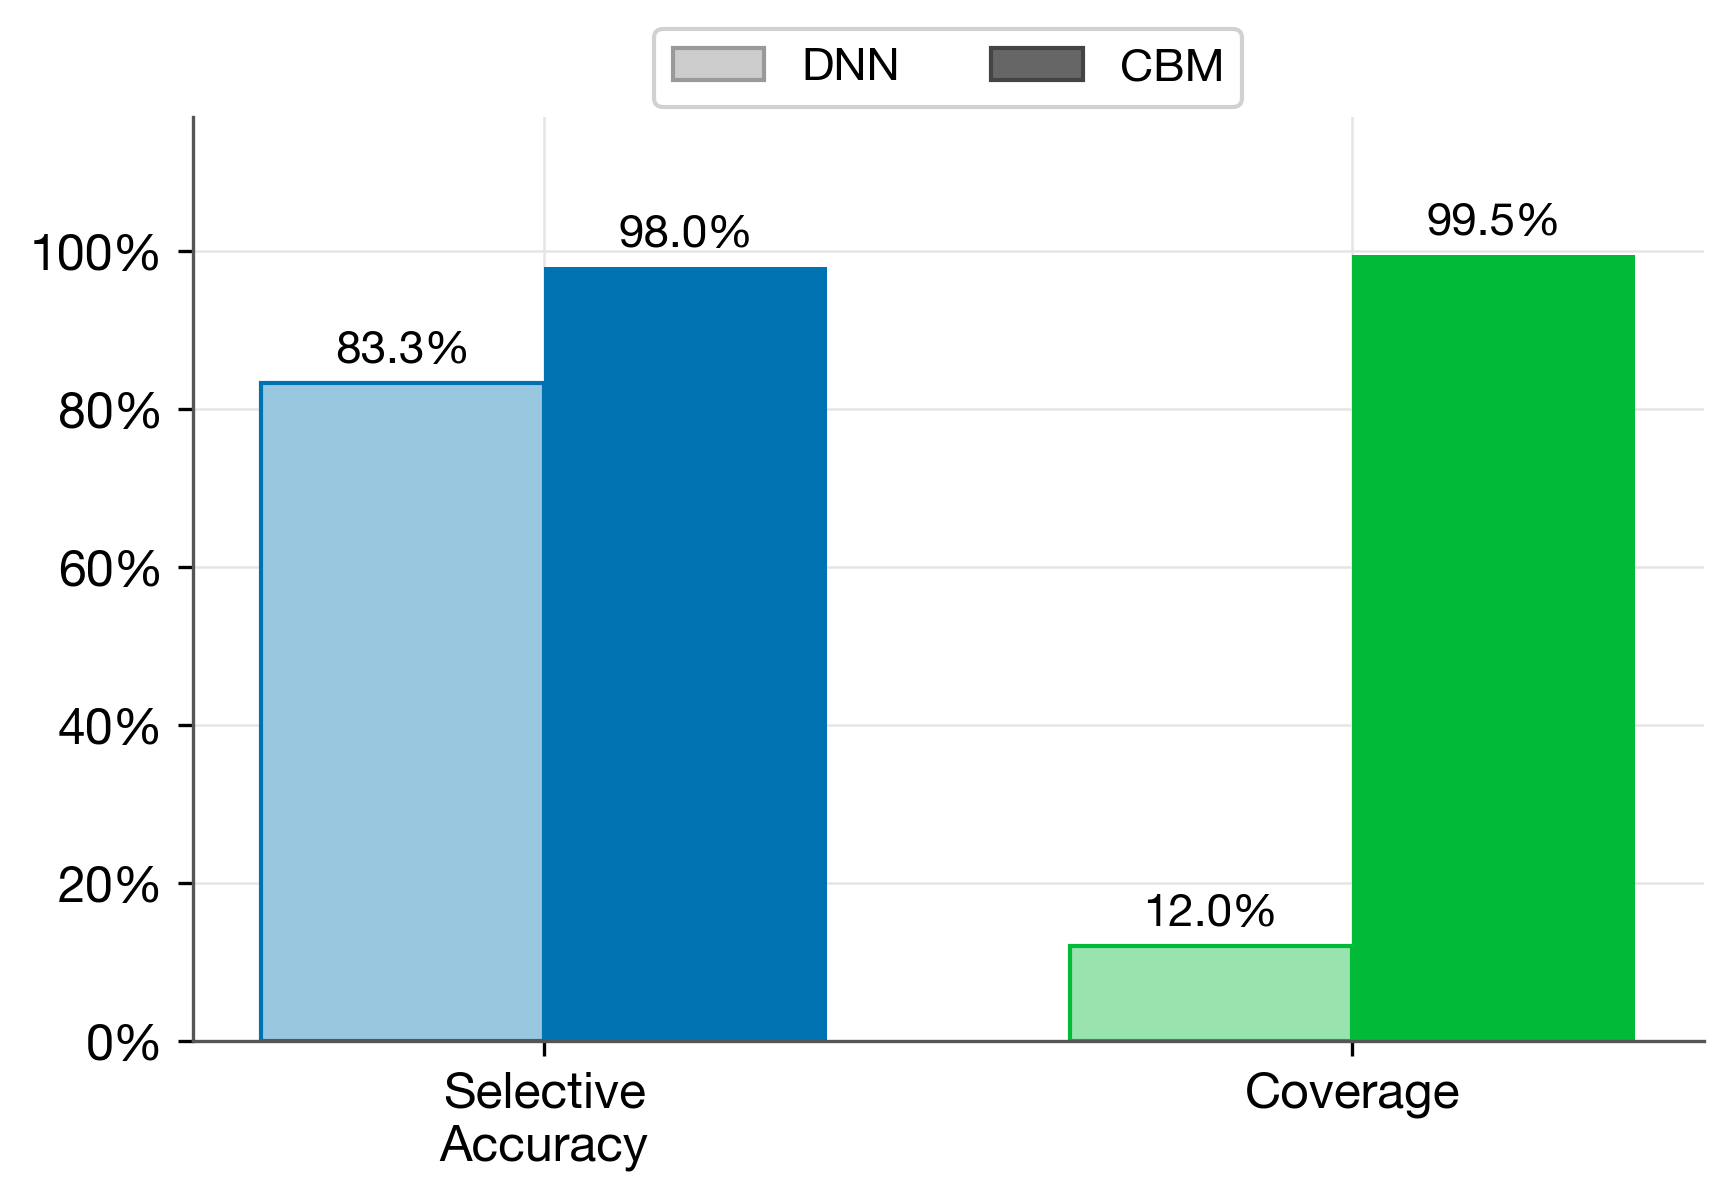
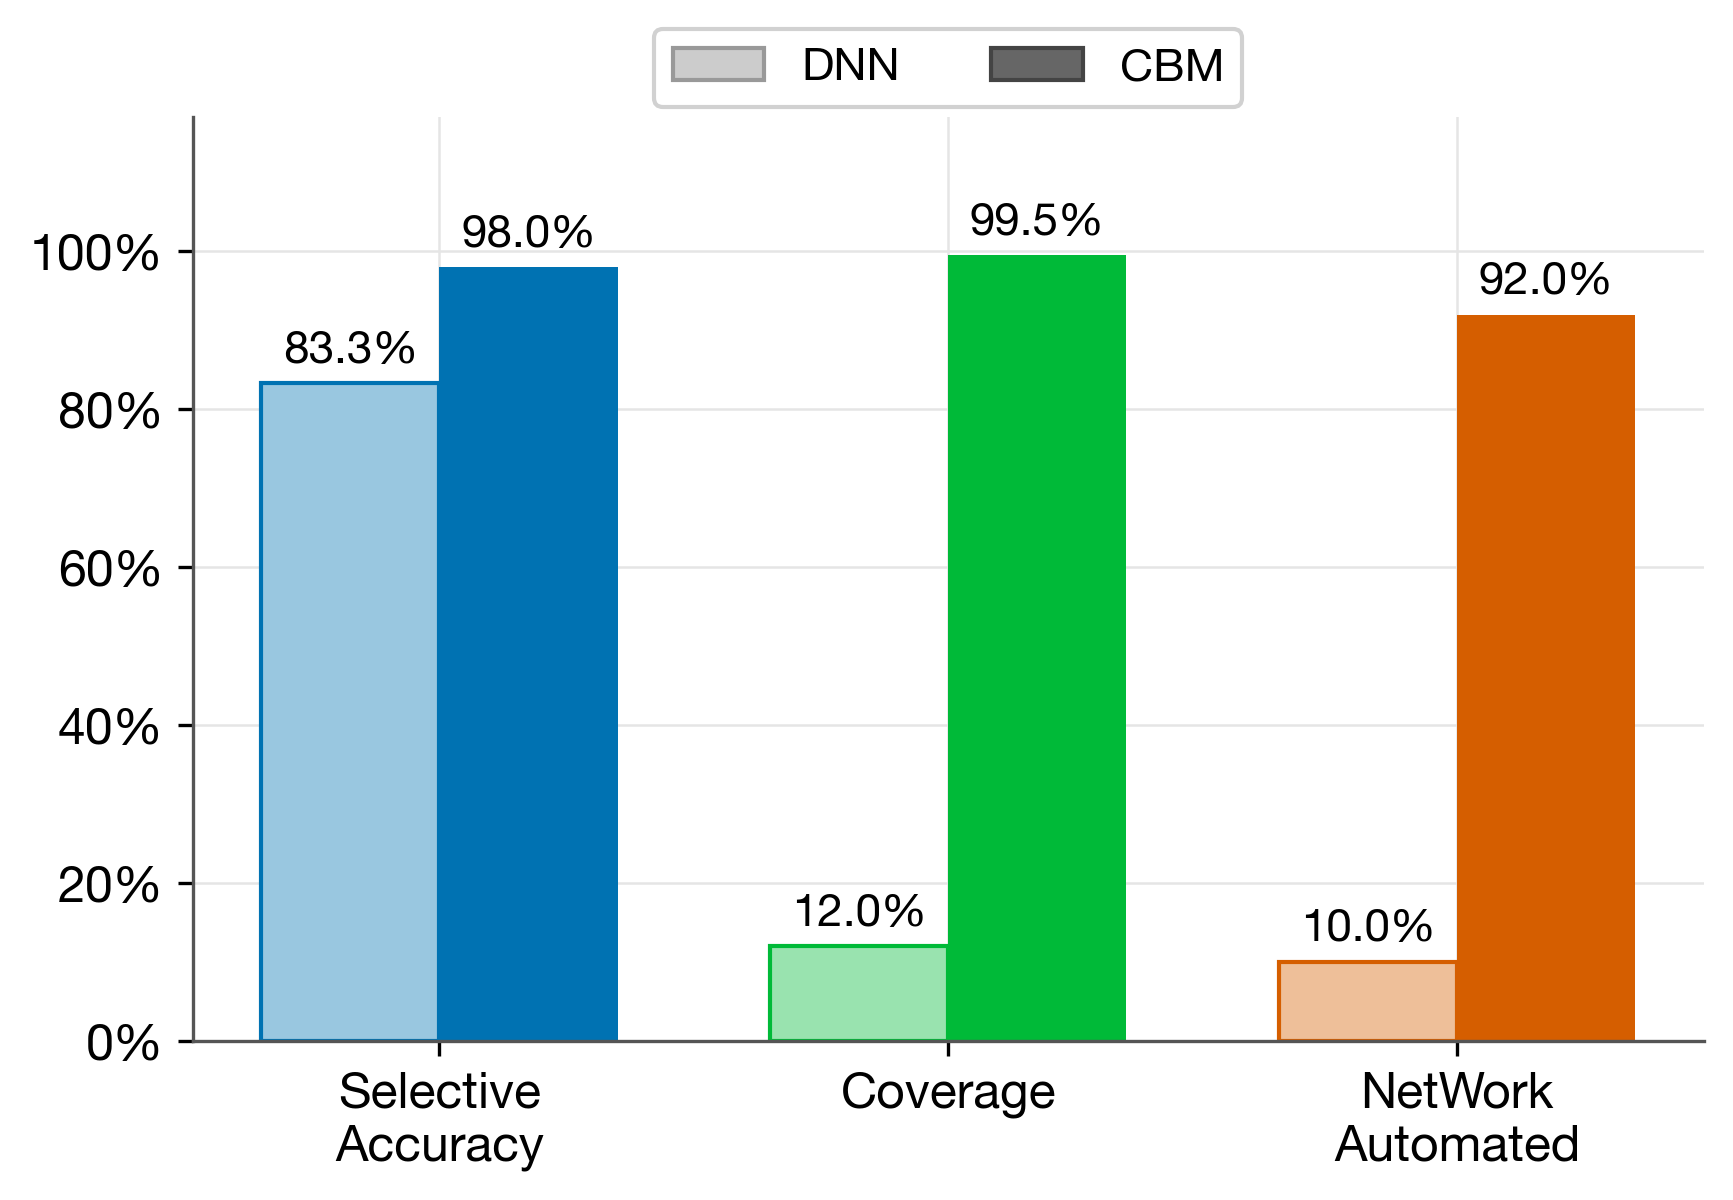
Add NetWork Automated as 3rd metric in selective classification plot
Also remove collapsible note from ToC for Interventions and Alignment.

diff --git a/README.md b/README.md
@@ -20,7 +20,7 @@ The package includes two benchmarks:
 2. [Quick Start](#quick-start)
 3. [Benchmarks](#benchmarks)
 4. [Benchmark Your Own Model](#benchmark-your-own-model)
-5. [Interventions and Alignment](#interventions-and-alignment) (collapsible — custom strategies, regimes, alignment)
+5. [Interventions and Alignment](#interventions-and-alignment)
 6. [Citation](#citation)
 
 ## Installation
